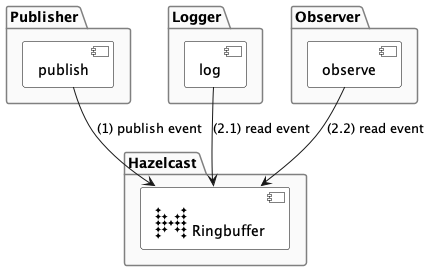
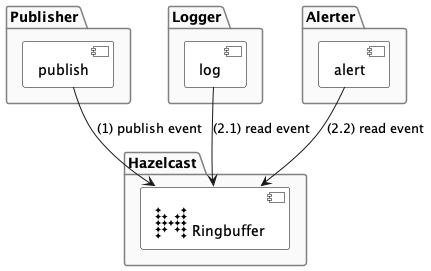
implement publisher, logger, alerter and docs

Changed region(s): [[0.6636, 0.0, 0.8747, 0.3838], [0.8445, 0.0886, 0.9954, 0.4133]]

diff --git a/publisher/publisher.go b/publisher/publisher.go
@@ -4,11 +4,14 @@ import (
 	"context"
 	"fmt"
 	"github.com/hazelcast/hazelcast-go-client"
+	"log"
+	"math/rand"
 	"time"
 )
 
 func main() {
 	ctx := context.TODO()
+	rand.Seed(time.Now().UnixNano())
 
 	client, err := hazelcast.StartNewClient(ctx)
 	if err != nil {
@@ -20,6 +23,18 @@ func main() {
 		panic(err)
 	}
 
-	msg := fmt.Sprintf("Hello World, sender's time is %s", time.Now())
-	rb.Add(ctx, msg, hazelcast.OverflowPolicyOverwrite)
+	log.Println("Processing. Press CTRL+C to exit.")
+	for true {
+		msg := fmt.Sprintf("Hello World, sender's time is %s", time.Now())
+		if rand.Intn(100) < 10 {
+			// a 10% chance of sending an alert
+			msg = fmt.Sprintf("Alert at %s", time.Now())
+		}
+		sequence, err := rb.Add(ctx, msg, hazelcast.OverflowPolicyOverwrite)
+		log.Printf("Published with sequence=%d, msg=%s", sequence, msg)
+		if err != nil {
+			panic(err)
+		}
+		time.Sleep(1 * time.Second) // just be graceful in our little demo
+	}
 }

diff --git a/alerter/alerter.go b/alerter/alerter.go
@@ -1,0 +1,38 @@
+package main
+
+import (
+	"context"
+	"github.com/hazelcast/hazelcast-go-client"
+	"log"
+	"strings"
+)
+
+func main() {
+	ctx := context.TODO()
+
+	client, err := hazelcast.StartNewClient(ctx)
+	if err != nil {
+		panic(err)
+	}
+
+	rb, err := client.GetRingbuffer(ctx, "my-ringbuffer")
+	if err != nil {
+		panic(err)
+	}
+
+	log.Println("Processing. Press CTRL+C to exit.")
+	for sequence := int64(0); true; {
+		resultSet, err := rb.ReadMany(ctx, sequence, 5, 10, nil)
+		if err != nil {
+			panic(err)
+		}
+		for i := 0; i < resultSet.Size(); i++ {
+			if msg, err := resultSet.Get(i); err == nil && strings.HasPrefix(msg.(string), "Alert") {
+				msgSequence, _ := resultSet.GetSequence(i)
+				log.Printf("Received alert sequence=%d msg=%s", msgSequence, msg)
+			}
+		}
+		sequence = resultSet.GetNextSequenceToReadFrom()
+	}
+
+}

diff --git a/alerter/prefix_filter.go b/alerter/prefix_filter.go
@@ -1,0 +1,39 @@
+package main
+
+import (
+	"fmt"
+	"github.com/hazelcast/hazelcast-go-client/serialization"
+)
+
+type PrefixFilter struct {
+	Prefix string
+}
+
+func (p *PrefixFilter) FactoryID() int32 {
+	return 666
+}
+
+func (p *PrefixFilter) ClassID() int32 {
+	return 14
+}
+
+func (p *PrefixFilter) WriteData(output serialization.DataOutput) {
+	output.WriteString(p.Prefix)
+}
+
+func (p *PrefixFilter) ReadData(input serialization.DataInput) {
+	p.Prefix = input.ReadString()
+}
+
+type IdentifiedFactory struct{}
+
+func (f IdentifiedFactory) Create(id int32) serialization.IdentifiedDataSerializable {
+	if id == 14 {
+		return &PrefixFilter{}
+	}
+	panic(fmt.Sprintf("unknown class ID: %d", id))
+}
+
+func (f IdentifiedFactory) FactoryID() int32 {
+	return 666
+}

diff --git a/logger/logger.go b/logger/logger.go
@@ -19,6 +19,7 @@ func main() {
 		panic(err)
 	}
 
+	log.Println("Processing. Press CTRL+C to exit.")
 	for sequence := int64(0); true; sequence++ {
 		item, err := rb.ReadOne(ctx, sequence)
 		if err != nil {
